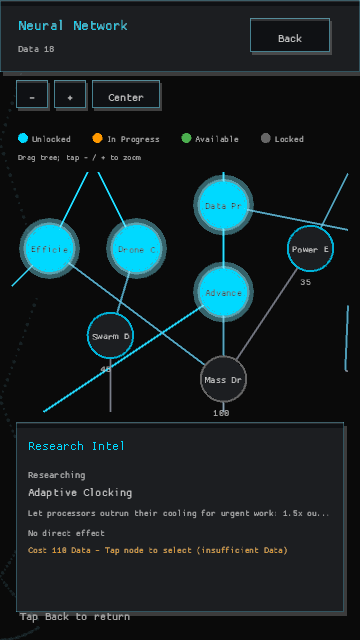
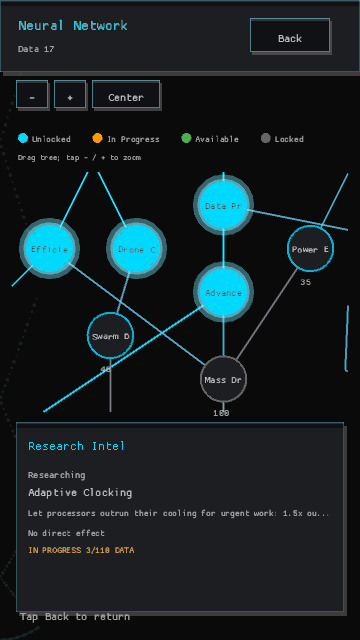
The swarm stops asking its mind to choose what it already knows (active research status, GDD 4)
The research drawer identified an active node as \Researching\ but still presented \Tap node to select (insufficient Data)\. That contradiction was especially costly on phones, where the drawer is the primary explanation of the selected node.\n\nA shared \ctive_research_status\ now reports the live progress and total Data cost for the current node in compact, mobile, and full layouts. Unselected nodes keep their existing cost and prerequisite guidance. The mobile research capture is registered as its own reproducible 320x480 scene, with refreshed 360x640 evidence.\n\nVerified with rustfmt, strict clippy, 477 game tests plus the source-size test, rendered captures at 320x480, 360x640, and 1280x720, and \publish.ps1\.\n\nCo-Authored-By: GPT-5 <noreply@openai.com>

diff --git a/src/screens/research_view.rs b/src/screens/research_view.rs
@@ -493,57 +493,61 @@ pub fn render_research_view(context: ResearchViewContext<'_>) -> ResearchAction 
                 y += 4.0;
 
                 if !research_state.is_unlocked(node_id) {
-                    let cost_text = format!("Cost {:.0} Data", node.data_cost);
-                    draw_ui_text(&cost_text, left_panel_x + 12.0, y, 12.0, Colors::ACCENT);
-                    y += 18.0;
+                    if let Some(status) = active_research_status(research_state, node_id, node) {
+                        draw_ui_text(&status, left_panel_x + 12.0, y, 12.0, Colors::WARNING);
+                    } else {
+                        let cost_text = format!("Cost {:.0} Data", node.data_cost);
+                        draw_ui_text(&cost_text, left_panel_x + 12.0, y, 12.0, Colors::ACCENT);
+                        y += 18.0;
 
-                    if research_tree.can_select_on(
-                        node_id,
-                        &research_state.unlocked,
-                        active_condition,
-                    ) {
-                        if research_tree.can_research_on(
+                        if research_tree.can_select_on(
                             node_id,
                             &research_state.unlocked,
-                            data_available,
                             active_condition,
                         ) {
+                            if research_tree.can_research_on(
+                                node_id,
+                                &research_state.unlocked,
+                                data_available,
+                                active_condition,
+                            ) {
+                                draw_ui_text(
+                                    "Tap node to research",
+                                    left_panel_x + 12.0,
+                                    y,
+                                    12.0,
+                                    Colors::SUCCESS,
+                                );
+                            } else {
+                                draw_ui_text(
+                                    "Tap node to select (insufficient Data)",
+                                    left_panel_x + 12.0,
+                                    y,
+                                    11.0,
+                                    Colors::WARNING,
+                                );
+                            }
+                        } else if !node
+                            .prerequisites
+                            .iter()
+                            .all(|p| research_state.is_unlocked(p))
+                        {
                             draw_ui_text(
-                                "Tap node to research",
+                                "Prerequisites not met",
                                 left_panel_x + 12.0,
                                 y,
                                 12.0,
-                                Colors::SUCCESS,
+                                Colors::ERROR,
                             );
                         } else {
                             draw_ui_text(
-                                "Tap node to select (insufficient Data)",
+                                "Not enough Data",
                                 left_panel_x + 12.0,
                                 y,
-                                11.0,
+                                12.0,
                                 Colors::WARNING,
                             );
                         }
-                    } else if !node
-                        .prerequisites
-                        .iter()
-                        .all(|p| research_state.is_unlocked(p))
-                    {
-                        draw_ui_text(
-                            "Prerequisites not met",
-                            left_panel_x + 12.0,
-                            y,
-                            12.0,
-                            Colors::ERROR,
-                        );
-                    } else {
-                        draw_ui_text(
-                            "Not enough Data",
-                            left_panel_x + 12.0,
-                            y,
-                            12.0,
-                            Colors::WARNING,
-                        );
                     }
                 } else {
                     draw_ui_text("UNLOCKED", left_panel_x + 12.0, y, 12.0, Colors::SUCCESS);

diff --git a/src/screens/research_view/compact.rs b/src/screens/research_view/compact.rs
@@ -17,6 +17,23 @@ pub(super) fn draw_compact_legend(x: f32, y: f32) {
     }
 }
 
+pub(super) fn active_research_status(
+    research_state: &ResearchState,
+    node_id: &str,
+    node: &crate::engine::ResearchNode,
+) -> Option<String> {
+    if research_state.current_research.as_deref() != Some(node_id)
+        || research_state.is_unlocked(node_id)
+    {
+        return None;
+    }
+    Some(format!(
+        "IN PROGRESS {:.0}/{:.0} DATA",
+        research_state.research_progress.min(node.data_cost),
+        node.data_cost
+    ))
+}
+
 pub(super) fn update_compact_viewport(viewport: &mut ResearchViewport, tree: Rect) {
     let mouse = Vec2::from(mouse_position());
     if is_mouse_button_pressed(MouseButton::Left) && tree.contains(mouse) {
@@ -137,6 +154,10 @@ pub(super) fn draw_compact_node_info(
         draw_ui_text("UNLOCKED", split_x, detail_y + 2.0, 11.0, Colors::SUCCESS);
         return;
     }
+    if let Some(status) = active_research_status(research_state, node_id, node) {
+        draw_ui_text(&status, split_x, detail_y + 2.0, 11.0, Colors::WARNING);
+        return;
+    }
     draw_ui_text(
         &format!("Cost {:.0} Data", node.data_cost),
         split_x,
@@ -230,6 +251,8 @@ fn draw_mobile_node_info(
     }
     let (status, color) = if research_state.is_unlocked(node_id) {
         ("UNLOCKED".to_string(), Colors::SUCCESS)
+    } else if let Some(status) = active_research_status(research_state, node_id, node) {
+        (status, Colors::WARNING)
     } else {
         let status = if node
             .planet_condition

diff --git a/src/screens/research_view/compact/tests.rs b/src/screens/research_view/compact/tests.rs
@@ -21,3 +21,26 @@ fn line_already_inside_tree_is_unchanged() {
     let to = vec2(90.0, 70.0);
     assert_eq!(clip_line(tree, from, to), Some((from, to)));
 }
+
+#[test]
+fn active_research_status_reports_progress_instead_of_a_selection_prompt() {
+    let node = crate::engine::ResearchNode::new(
+        "adaptive_clocking",
+        "Adaptive Clocking",
+        "A test node",
+        115.0,
+        vec![],
+        (0.0, 0.0),
+    );
+    let state = crate::engine::ResearchState {
+        unlocked: vec![],
+        current_research: Some("adaptive_clocking".to_string()),
+        research_progress: 42.0,
+    };
+
+    assert_eq!(
+        active_research_status(&state, "adaptive_clocking", &node),
+        Some("IN PROGRESS 42/115 DATA".to_string())
+    );
+    assert!(active_research_status(&state, "other", &node).is_none());
+}

diff --git a/src/capture_scenes/scenes.rs b/src/capture_scenes/scenes.rs
@@ -46,7 +46,7 @@ impl Game {
                 self.phase = GamePhase::Settings;
                 self.settings_tab = crate::screens::SettingsTab::Audio;
             }
-            "research" => {
+            "research" | "mobile_research" => {
                 self.phase = GamePhase::Research;
                 // A node that both moves a stat and opens a building, so the
                 // panel shows everything it can say about one.

diff --git a/src/capture_scenes.rs b/src/capture_scenes.rs
@@ -8,9 +8,10 @@
 mod fixtures;
 
 #[allow(dead_code)]
-pub const REQUIRED_CAPTURE_SCENES: [&str; 15] = [
+pub const REQUIRED_CAPTURE_SCENES: [&str; 16] = [
     "mainmenu",
     "research",
+    "mobile_research",
     "logistics",
     "assembly",
     "focus",

diff --git a/src/capture_scenes/tests.rs b/src/capture_scenes/tests.rs
@@ -7,6 +7,7 @@ fn required_capture_scenes_are_registered() {
         [
             "mainmenu",
             "research",
+            "mobile_research",
             "logistics",
             "assembly",
             "focus",
